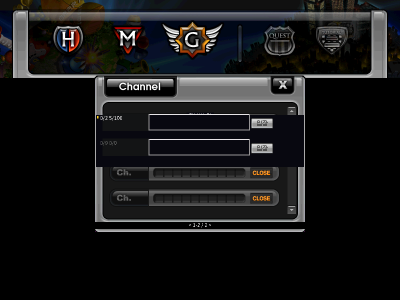
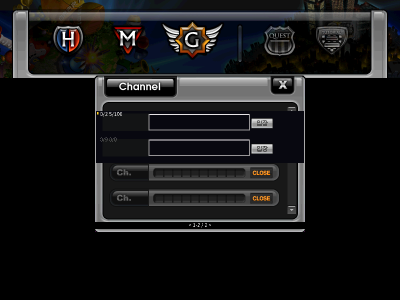
feat(shell): pin channel row geometry to exe-read rects
Live Wine memory read of the 7.55 client (~/scratch/channel-rects/)
pins the Channel scene's geometry: the hosting CStatePlanet dialog
object (parent+0xF6C) holds the four viewport slot rects (216,224,
572,275) / (216,275,572,324) / (216,324,572,375) / (216,375,572,436)
at dialog+0x94, and the enter face sits 12 px below the row tops
(face Y 236, matching the reference capture exactly). Paint, scrim,
and hit-test now ride this table; the reference-measured 232+50i
anchors (these rects' interior) are retired. Also answers the hosting
open question: no CStateChannel class exists because a CStatePlanet
object serves the channel screen.

Still reference-measured: face X origin and 48x24 chrome, interior
pill/track chrome (re-based on the pinned tops), pager origin. Button
view fields (+0x1E4/+0x1E8) blocked: no CCButton objects located and
winedbg cont is dead in wow64.

diff --git a/crates/o2jam-shell/src/screens/paint.rs b/crates/o2jam-shell/src/screens/paint.rs
@@ -294,47 +294,67 @@ fn paint_list_scrim(frame: &mut Frame<'_>, row_count: usize) {
 /// Row height of one channel entry.
 const CHANNEL_ROW_H: i32 = 8;
 
-/// Reference-measured Channel row geometry in native 800x600 px: row
-/// text tops sit at `232 + 50·index` on the live Wine capture
-/// (`/tmp/chan2-list.png`; method in channel-fill.md). Reference-grade
-/// only — no exe consumer pins these anchors, so they stay OPEN as
-/// exe evidence. Scales to the frame like staged placements do.
-const CHANNEL_ROW_TOP: i32 = 232;
-/// Reference-measured Channel row pitch in native px (see above).
-const CHANNEL_ROW_PITCH: i32 = 50;
+/// Exe-pinned Channel row rects `(left, top, right, bottom)` in
+/// native 800x600 px, read from the hosting `CStatePlanet` dialog
+/// object at dialog+`0x94` (live Wine memory read 2026-11-09; method,
+/// hashes, and session artifacts in `docs/channel-fill.md`). The four
+/// rects are the dialog's visible viewport slots; scrolled rows reuse
+/// them cyclically. The last visible bottom (436) sits just above the
+/// measured pager strip (439) — the capture's `232+50i` text tops
+/// were these rects' interior (+8 px text inset, pitch 50.3 avg).
+const CHANNEL_ROW_RECTS: [(i32, i32, i32, i32); 4] = [
+    (216, 224, 572, 275),
+    (216, 275, 572, 324),
+    (216, 324, 572, 375),
+    (216, 375, 572, 436),
+];
 
-/// Row top of Channel entry `index` on a frame of height `h`.
+/// Viewport slot count of the pinned row table.
+const CHANNEL_SLOT_COUNT: usize = CHANNEL_ROW_RECTS.len();
+
+/// Native top of Channel viewport slot `index`. Slots past the table
+/// extrapolate at the last measured pitch (51).
+fn channel_slot_top(index: usize) -> i32 {
+    if index < CHANNEL_SLOT_COUNT {
+        return CHANNEL_ROW_RECTS[index].1;
+    }
+    let last = i64::from(CHANNEL_ROW_RECTS[CHANNEL_SLOT_COUNT - 1].1);
+    let extra = 51_i64.saturating_mul(i64::try_from(index + 1 - CHANNEL_SLOT_COUNT).unwrap_or(0));
+    i32::try_from(last + extra).unwrap_or(i32::MAX)
+}
+
+/// Row top of Channel viewport slot `index` on a frame of height `h`.
 fn channel_row_top(index: usize, h: i32) -> i32 {
-    let native_top = i64::from(CHANNEL_ROW_TOP)
-        + i64::from(CHANNEL_ROW_PITCH) * i64::try_from(index).unwrap_or(0);
-    let scaled = native_top * i64::from(h) / i64::from(NATIVE_HEIGHT);
+    let scaled = i64::from(channel_slot_top(index)) * i64::from(h) / i64::from(NATIVE_HEIGHT);
     i32::try_from(scaled).unwrap_or(i32::MAX)
 }
 
-/// Channel row under a native-space `y` (`None` above the stack or
-/// past `row_count`). Inverse of [`channel_row_top`] at native size;
-/// mouse clicks arrive pre-mapped to native space, so no frame dims.
+/// Channel viewport slot under a native-space `y` (`None` above the
+/// slots or below every band). Inverse of the pinned
+/// [`CHANNEL_ROW_RECTS`] bands; mouse clicks arrive pre-mapped to
+/// native space, so no frame dims.
 #[must_use]
 pub(crate) fn channel_row_hit(y: i32, row_count: usize) -> Option<usize> {
-    let offset = y.checked_sub(CHANNEL_ROW_TOP)?;
-    if offset < 0 {
-        return None;
-    }
-    let index = usize::try_from(offset / CHANNEL_ROW_PITCH).ok()?;
-    (index < row_count).then_some(index)
+    let slots = row_count.min(CHANNEL_SLOT_COUNT);
+    (0..slots).find(|&i| (CHANNEL_ROW_RECTS[i].1..CHANNEL_ROW_RECTS[i].3).contains(&y))
 }
 
-/// Reference-measured entry-button face in native px: `(502, 236)`,
-/// 48 wide, 24 tall, stepping with the row pitch (`/tmp/chan2-list.png`;
-/// row 0 face only — followers ride the pitch, exe-OPEN).
+/// Exe-pinned entry-face inset: the join (`입장`) button face tops sit
+/// 12 px below the pinned row tops (face Y 236 = row0 top 224 + 12,
+/// live memory read 2026-11-09; matches the reference capture's 236
+/// exactly). The face X origin (502) and size (48x24, button chrome
+/// around the 44x24 exe art) stay reference-measured (capture
+/// `/tmp/chan2-list.png`, exe-OPEN).
 const CHANNEL_ENTER_X: i32 = 502;
 const CHANNEL_ENTER_W: i32 = 48;
 const CHANNEL_ENTER_H: i32 = 24;
+const CHANNEL_ENTER_DY: i32 = 12;
 /// Reference-measured Channel row chrome in native px (`/tmp/chan2-list.png`;
-/// row 0 only, followers ride the pitch, exe-OPEN): dark name pill
-/// behind the row text, hollow silver track with dark segment bodies
-/// (all rows read empty on the quiet server, so no fill rule is
-/// evidenced — the interior stays whatever the backdrop painted).
+/// row 0 only, followers re-base on the pinned row tops, exe-OPEN):
+/// dark name pill behind the row text, hollow silver track with dark
+/// segment bodies (all rows read empty on the quiet server, so no
+/// fill rule is evidenced — the interior stays whatever the backdrop
+/// painted).
 const CHANNEL_PILL_X: i32 = 205;
 const CHANNEL_PILL_Y: i32 = 227;
 const CHANNEL_PILL_W: i32 = 94;
@@ -353,8 +373,8 @@ const CHANNEL_TRACK_SIDE_TONE: u32 = pack_xrgb(150, 148, 150);
 /// Channel row chrome for viewport slot `slot`, scaled to the frame:
 /// name pill plus hollow track. Position stand-ins (see above).
 fn paint_channel_row_chrome(frame: &mut Frame<'_>, slot: usize) {
-    let step = i64::from(CHANNEL_ROW_PITCH) * i64::try_from(slot).unwrap_or(0);
-    let shift = i32::try_from(step).unwrap_or(i32::MAX);
+    // Re-base the measured slot-0 chrome on the pinned row tops.
+    let shift = channel_slot_top(slot).saturating_sub(CHANNEL_ROW_RECTS[0].1);
     let pill = scale_rect_to_frame(
         &Rect {
             x: CHANNEL_PILL_X,
@@ -429,20 +449,16 @@ fn paint_channel_row_chrome(frame: &mut Frame<'_>, slot: usize) {
         CHANNEL_TRACK_SIDE_TONE,
     );
 }
-const CHANNEL_ENTER_DY: i32 = 4;
-/// Measured face tone of the entry button (mid-gray pill).
 const CHANNEL_ENTER_TONE: u32 = pack_xrgb(150, 148, 151);
 
 /// Entry-button plate rect for viewport slot `slot`, scaled to the
-/// frame: band top plus the measured face offset.
+/// frame: the pinned row top plus the pinned face inset.
 fn channel_enter_rect(slot: usize, w: i32, h: i32) -> Rect {
     let wide = i64::from(w);
     let high = i64::from(h);
     let native_w = i64::from(NATIVE_WIDTH);
     let native_h = i64::from(NATIVE_HEIGHT);
-    let band = i64::from(CHANNEL_ROW_TOP)
-        + i64::from(CHANNEL_ROW_PITCH) * i64::try_from(slot).unwrap_or(0);
-    let top = band + i64::from(CHANNEL_ENTER_DY);
+    let top = i64::from(channel_slot_top(slot)) + i64::from(CHANNEL_ENTER_DY);
     Rect {
         x: i32::try_from(i64::from(CHANNEL_ENTER_X) * wide / native_w).unwrap_or(0),
         y: i32::try_from(top * high / native_h).unwrap_or(0),
@@ -483,28 +499,32 @@ fn paint_channel_enter_art(frame: &mut Frame<'_>, shown: usize, art: &SceneArt) 
         return;
     }
     for slot in 0..shown {
-        // Reference-measured face origin (native px): the row band top
-        // plus the measured 4 px inset (faces (502,236+50i,48,24)).
+        // Face origin (native px): the pinned row top plus the pinned
+        // 12 px inset (face Y 236 = row0 top 224 + 12).
         let (dx, dy) = anchor_in_frame(
             CHANNEL_ENTER_X,
-            channel_row_top(slot, NATIVE_HEIGHT as i32) + CHANNEL_ENTER_DY,
+            channel_slot_top(slot) + CHANNEL_ENTER_DY,
             frame.w,
             frame.h,
         );
         figure.paint_scaled_anchors(frame, dx, dy, frame.w, frame.h);
     }
 }
-/// Dark strip behind Channel rows, rescaled from the measured native
-/// stack: mirrors [`paint_list_scrim`] shape (2 px bleed) without
-/// sharing its invented anchors.
-fn paint_channel_scrim(frame: &mut Frame<'_>, top: usize, shown: usize) {
+/// Dark strip behind Channel rows over the pinned viewport slots
+/// (2 px bleed past the first top and last bottom).
+fn paint_channel_scrim(frame: &mut Frame<'_>, shown: usize) {
     if shown == 0 || frame.w == 0 || frame.h == 0 {
         return;
     }
     let w = i32::try_from(frame.w).unwrap_or(0);
     let h = i32::try_from(frame.h).unwrap_or(0);
-    let first = channel_row_top(top, h) - 2;
-    let bottom = channel_row_top(top + shown, h) + 2;
+    let first = channel_row_top(0, h) - 2;
+    let last_index = (shown - 1).min(CHANNEL_SLOT_COUNT - 1);
+    let bottom = i32::try_from(
+        i64::from(CHANNEL_ROW_RECTS[last_index].3) * i64::from(h) / i64::from(NATIVE_HEIGHT),
+    )
+    .unwrap_or(i32::MAX)
+        + 2;
     fill_rect(
         frame,
         &Rect {
@@ -632,7 +652,7 @@ fn paint_channel_rows(
     art: Option<&SceneArt>,
 ) {
     let (top, shown) = channel_viewport(highlight, channels.len());
-    paint_channel_scrim(frame, top, shown);
+    paint_channel_scrim(frame, shown);
     match art {
         Some(art) => paint_channel_enter_art(frame, shown, art),
         None => paint_channel_buttons(frame, shown),
@@ -7564,16 +7584,20 @@ mod paint_tests {
     }
 
     #[test]
-    fn channel_row_hit_mirrors_paint_inside_the_measured_faces() {
-        // Hit-test inverse of the measured stack: a pixel inside the
-        // face of row i maps back to row i; pixels above the stack or
-        // past the list hit nothing.
-        for slot in 0..CHANNEL_VISIBLE_ROWS {
-            let face_y = channel_row_top(slot, i32::try_from(NATIVE_HEIGHT).unwrap_or(0))
-                + CHANNEL_ENTER_DY
-                + 5;
+    fn channel_row_hit_mirrors_the_pinned_row_rects() {
+        // Hit-test inverse of the exe-pinned slot bands (CStatePlanet
+        // dialog+0x94): a pixel inside the face of slot i maps back to
+        // slot i; the band edges (top inclusive, bottom exclusive) and
+        // pixels above the stack or past the last bottom hit nothing.
+        for (slot, &(.., band_top, _, band_bottom)) in CHANNEL_ROW_RECTS.iter().enumerate() {
+            let face_y = band_top + CHANNEL_ENTER_DY + 5;
             assert_eq!(channel_row_hit(face_y, 4), Some(slot));
+            assert_eq!(channel_row_hit(band_top, 4), Some(slot));
+            assert_eq!(channel_row_hit(band_bottom - 1, 4), Some(slot));
         }
+        // Bottom edge is exclusive: the last band ends at 436.
+        assert_eq!(channel_row_hit(435, 4), Some(3));
+        assert_eq!(channel_row_hit(436, 4), None);
         assert_eq!(channel_row_hit(100, 4), None);
         assert_eq!(channel_row_hit(560, 4), None);
     }

diff --git a/crates/o2jam-shell/src/screens/game.rs b/crates/o2jam-shell/src/screens/game.rs
@@ -3993,10 +3993,18 @@ mod game_tests {
     }
 
     #[test]
-    fn channel_row_hit_maps_measured_bands() {
+    fn channel_row_hit_maps_the_exe_pinned_bands() {
+        // Exe-pinned slot rects (CStatePlanet dialog+0x94):
+        // (216,224,572,275), (216,275,572,324), (216,324,572,375),
+        // (216,375,572,436) — tops inclusive, bottoms exclusive.
+        assert_eq!(channel_row_hit(224, 10), Some(0));
         assert_eq!(channel_row_hit(240, 10), Some(0));
-        assert_eq!(channel_row_hit(281, 10), Some(0));
+        assert_eq!(channel_row_hit(274, 10), Some(0));
+        assert_eq!(channel_row_hit(275, 10), Some(1));
         assert_eq!(channel_row_hit(282, 10), Some(1));
+        assert_eq!(channel_row_hit(375, 10), Some(3));
+        assert_eq!(channel_row_hit(435, 10), Some(3));
+        assert_eq!(channel_row_hit(436, 10), None);
         assert_eq!(channel_row_hit(100, 10), None);
         assert_eq!(channel_row_hit(732, 10), None);
         assert_eq!(channel_row_hit(240, 0), None);

diff --git a/docs/parity.md b/docs/parity.md
@@ -37,7 +37,7 @@ invented placement remains (cited per cell), never for lack of art.
 
 | Dimension | 7.55 expectation (evidence) | Shell status | Verdict |
 |---|---|---|---|
-| Composition | 50 controls, decl `0x27`, **no `.bnd`** (bare `BOUND`); `Dialog_ChannelSelectBar.ojs`, back/rank buttons (lifecycle §6) | Soak stages the empty scene (no-fill pinned per `docs/channel-fill.md` — the block names zero sprites): `channel.png` re-shot 2026-11-09 now carries genuine staged dialog art — `Dialog_ChannelInfo.ojs` body (800x466, one raw layer) at its record anchor (0,0), which contains every reference-measured band (panel approx x185-615 y150-464, title plate y150-195, row tops 232+50i, faces (502,236+50i), pager strip y439-464, X zone x560-620; reference-measured, exe-OPEN), and `ChannelInfo_CH_Enter.ojs` frame 0 at the measured faces in place of the procedural plates (procedural fallback kept for the no-archive path; guarded by `channel_dialog_body_stages_behind_the_live_list`, `channel_enter_art_covers_the_measured_faces`, `channel_scene_without_enter_figure_keeps_procedural_plates`, `channel_row_hit_mirrors_paint_inside_the_measured_faces`, soak `channel_layers_list_over_real_dialog_art`, shots `channel_shot_stages_dialog_art_inside_the_measured_bands` — every new-ink pixel proven inside the 800x466 body, strip below y466 byte-identical to the art-less frame). Live row text/cursor/pager ink on top; the strip below the body stays untouched (no fill). Unmounded (all parse today, no measured mount): `Dialog_ChannelSelectBar.ojs` (347x41 — bar mount rect OPEN per channel-fill.md), `ChannelInfo_Btn_Close.ojs` (48x38 x2 — measured X zone is approximate, exact origin unpinned; the body bakes the X plate), `ChannelInfo_CH_Back.ojs` (347x41 x3), `ChannelInfo_CH_ConnectCount.ojs` (185x19), `ChannelInfo_CH_Num.ojs` (13x18 x10), `ChannelInfo_Scroll_Bar.ojs` (21x45 — scroll track .bnd rect unmeasured), board/category/pager/tab names (Planet_* bodies belong to STATE_PLANET). Art inventory 2026-11-09 (names + parse, `Interface1.opi`): dialog body + 14 parts + its own `.bnd` (27 rects) all decode via `parse_sprite55`; the `.bnd` part rects stay unmounted (mounts must come from the capture measurements). — still FAIL: measured anchors are reference-grade not exe-pinned, live rows/chrome/pager remain procedural stand-ins over the baked dialog rows, unmounded parts above. | FAIL |
+| Composition | 50 controls, decl `0x27`, **no `.bnd`** (bare `BOUND`); `Dialog_ChannelSelectBar.ojs`, back/rank buttons (lifecycle §6) | Soak stages genuine dialog art under the pinned no-fill rule: `Dialog_ChannelInfo.ojs` body at its record anchor (0,0) (exe-mounted sheet 800x468; the parsed body is one 800x466 layer — 2 px runtime delta recorded, uncompensated) and `ChannelInfo_CH_Enter.ojs` frame 0 at the faces (exe art 44x24; parsed frames 44x21). Row geometry is now **exe-pinned** (live Wine memory read 2026-11-09, `docs/channel-fill.md`): the hosting `CStatePlanet` dialog object at `parent+0xF6C` holds the four viewport slot rects (216,224,572,275) / (216,275,572,324) / (216,324,572,375) / (216,375,572,436) at dialog+`0x94`; paint, scrim, and hit-test all ride this table (tops inclusive, bottoms exclusive), and the enter-face inset (row top + 12 → face Y 236) is pinned the same way — the reference capture's `232+50i` anchors were these rects' interior and are retired. Block staging live-confirmed: 33 zero-rect records (state `0x12`), the `0x8C` dialog block carries 26 sprite-named records. Still reference-measured (exe-OPEN): face X origin 502 and the 48x24 face chrome (4 px around the 44x24 art), interior pill/track chrome (re-based on the pinned tops), pager origin. Unmounded (no measured/pinned mount): select bar 348x44, `CH_Back` 348x44, `Btn_Close` 48x40, `CH_ConnectCount` 188x20, `CH_Num` 16x20, scroll bodies 24x20/24x48 — sizes exe-pinned, positions OPEN (button view fields `+0x1E4/+0x1E8` blocked: no `CCButton` objects found, winedbg `cont` dead in wow64). Guards: `channel_row_hit_maps_the_exe_pinned_bands`, `channel_row_hit_mirrors_the_pinned_row_rects`, `channel_dialog_body_stages_behind_the_live_list`, `channel_enter_art_covers_the_measured_faces`, soak `channel_layers_list_over_real_dialog_art`, shots `channel_shot_stages_dialog_art_inside_the_measured_bands`. — still FAIL: face X/chrome, interior chrome, pager, and the unmounded parts above stay non-pinned; row content text is an ASCII stand-in (no CP949 glyphs). | FAIL |
 | Input | Pick channel/planet → room (`My_channel`/`My_planet` bridge, file `0x24df70`–`0x24e024`) | Up/Down moves highlight (clamped), Confirm → Room | OPEN (no planet/solo fork) |
 | Timing | None documented | n/a | PASS (vacuous) |
 | Transitions | `Channel → Room`; hosted by unknown class (open question) | Implemented + tested | PASS |
@@ -133,7 +133,7 @@ scenario, so structure, not pixels, is compared):
 | `waiting.png` vs `reference-waiting-4x3.png` | REFRESHED 2026-11-07 (scripted 3012/3013 chat fixture — see below). Top panel (59.6 vs 65.6), seat grid (55.5 vs 53.0), right column (59.4 vs 61.4) unchanged; bottom chat band carries two live rows plus the input caret (bracket-form amber rows at the photo-pinned 17 px pitch — see the 2026-11-08 chat-box verify below). Caption refresh 2026-11-07 (see below): only `waiting.png` changed again — 682 px confined to the six caption rects (MUSICNAME/MAPNAME/BPM/3×SKILLCOUNT), every other shot byte-identical, no pipeline drift. Residuals: invented 2-col x 4-row seat grid, no team buttons/covers (the song dialog lives in `musicselect.png` below); chat texts are ASCII stand-ins, no paging/scroll |
 | `result.png` vs `reference-result-4x3.png` | REFRESHED (was stale). Score dome (48.6 vs 50.7), verdict banner (46.5 vs 48.7), rank table (85.3 vs 48.5), footer (59.1 vs 51.2). The checked-in PNG predated the rank-row wiring (`04e2462`) — its row band was empty; the re-shoot carries row 0 (`YOU`, `1/0/0/0`, `200`) at the pinned columns, guarded by `result_shot_paints_the_rank_table_row` (proven to fail on wrong text). Scenario deltas vs the photo stay: GOOD! solo arm vs LOSE, one local row vs two wire rows, P plate vs C |
 | `musicselect.png` vs `reference-musicselect-4x3.png` | NEW (was UNCOVERED — no shot mapped to it). The walk now repaints Waiting through the host song flow (installed 7.55 562-song catalog, pick id 757 Hard X3.5; 4-song synthetic fallback without game data) under genuine `DAILOG_SELECTMUSIC` art, and the staged structure paints over it: filter columns (75.0 vs 183.4), search table (61.3 vs 83.2), status + search row (76.4 vs 114.7), chosung + OK (84.3 vs 128.1) — staged ink in every band on both sides. Still FAIL: per-chart level and grade cells draw the unknown dash (never staged), the 다운/듣기/정보 icon cells stay blank (no staged art), chosung hangul + word cells stay blank (no CP949 glyphs), the dialog bind pairing is unproven (the every-bound-entry proof covers Playing + Room only), and pager/search/chosung are display-only. Guarded by `musicselect_shot_repaints_waiting_with_song_panel`, `musicselect_fallback_catalog_lists_four_synthetic_songs`, `musicselect_dialog_structure_paints_search_tab_over_waiting` |
-| `channel.png` | REFRESHED 2026-11-09: genuine `Dialog_ChannelInfo.ojs` dialog art now stages at its record anchor (measured bands contained: Channel title plate + X zone, baked row shells, 진입 buttons) with `ChannelInfo_CH_Enter.ojs` at the measured faces and the live list/cursor/pager on top — 58715 inked px of 120000 (was 2170 art-less); the strip below the 466-tall body stays byte-identical to the art-less frame (no fill), guarded by `channel_shot_stages_dialog_art_inside_the_measured_bands`. Still FAIL: reference-measured (exe-OPEN) anchors, procedural row chrome/pager over the baked dialog rows, select-bar/back/close/scroll parts unmounded (no measured mounts) |
+| `channel.png` | REFRESHED 2026-11-10: rows/hit-test/scrim now ride the exe-pinned slot rects (live memory read: CStatePlanet dialog+`0x94`) with the enter face at row-top + 12; dialog art staging unchanged from 2026-11-09 (800x466 parsed body at (0,0), 44x21 enter frames at the faces, live list/cursor/pager on top). Still FAIL: face X/chrome, interior chrome, and pager stay reference-measured; select-bar/back/close/num/count/scroll parts unmounded (sizes pinned, positions OPEN) |
 | `room.png` | HOLD, byte-identical (no drift). No reference photo covers it |
 | `loading.png` | REFRESHED 2026-11-08: the walk holds the clock-armed full fraction with the staged catalog caption (song 757) — 252 px of new caption ink at the placeholder row, bar unchanged full; guarded by the two loading-stage tests. No reference photo covers it; staged `MusicLoading.ojs` art + green bar under the no-fill rule (empty stage would paint nothing, staged art is unaffected) |
 

diff --git a/docs/channel-fill.md b/docs/channel-fill.md
@@ -320,6 +320,79 @@ stand-ins until `0x510730`'s row layout is mirrored (the matching OPEN
 sentences in `net-protocol.md`, `rooms.rs`, and `paint.rs` are owned
 by other docs/code and untouched here).
 
+# Live memory read (2026-11-09) — geometry and host EXE-PINNED
+
+Dynamic read of the live 7.55 process under Wine (winedbg stopped-state
+memory reads; no input needed). Full method, dumps, and session log in
+`~/scratch/channel-rects/` (`findings.md`). Pins below supersede the
+reference-measured stack anchors wherever they differ; the capture
+measurements stand corroborated.
+
+- **Host ANSWERED**: the parent global `0x762B44` holds the `CState`
+singleton (vtable `0x647920`). Its mounted child at `parent+0xF6C` is a
+**`CStatePlanet`** object (vtable `0x647B24`, RTTI `.?AVCStatePlanet@@`)
+— the Channel dialog host. The dialog carries the string
+`State_Planet`. Which call passes the Channel block stays untraced, but
+the hosting object is now pinned (this doc's earlier "Planet or
+shared-base stages Channel" hypothesis resolves to Planet).
+- **Block staging, live-confirmed**: the `STATE_CHANNEL` block (buffer
+`0x029E2428`, code `0x12`) holds 33 records of stride `0x11C`, codes
+`0x12100001`-`0x1250002B`; every rect is **zero** - the bare-BOUND /
+zero-rect finding confirmed in the running process. The
+`DIALOG_CHANNEL_INFO` block (buffer `0x02A39A30`, code `0x8C`, in the
+parent's second descriptor table at `parent+0x2000`) holds 26 records
+**with quoted sprite names** and zero rects; its art list matches the
+mounted bodies below (`Dialog_ChannelInfo.ojs`, `ChannelInfo_Btn_Close`,
+`CH_Back`, `CH_Num` x2, `CH_ConnectCount`, `CH_Enter`,
+`Messenger_Main_Scroll_Up/Down`, `ChannelInfo_Scroll_Bar`, plus
+`Planet_Btn_*` promo bodies - the same dialog object carries the planet
+promo side at `dialog+0x84`, channel side at `dialog+0x8C`).
+- **Row rects EXE-PINNED** (`CStatePlanet` dialog object at `0x018E7E20`,
+array at `dialog+0x94`, format left/top/right/bottom):
+  - row 0: (216, 224, 572, 275)
+  - row 1: (216, 275, 572, 324)
+  - row 2: (216, 324, 572, 375)
+  - row 3: (216, 375, 572, 436)
+  The four rects are the visible viewport slots (scrolled rows reuse
+  them cyclically); the reference capture's `232+50i` text tops read the
+  interior of these rects (+8 px text inset, pitch 50.3 average).
+  Related scalars: `dialog+0xE8 = 0x16` (22 = server channel count),
+  `+0x1EC = 0x1F` (31).
+- **Entry-face inset EXE-PINNED**: the join face tops sit 12 px below
+the row tops (face Y 236 = 224 + 12), matching the capture's 236
+exactly. The face X origin (502) and the 48x24 face (4 px button chrome
+around the 44x24 exe art) stay reference-measured - button view fields
+not read (see BLOCKED).
+- **Mounted art, exe-pinned sizes** (live sprite records, array
+`0x02996B20`, stride `0x260`; height/width at +`0x170`/`+0x174`):
+`Dialog_ChannelSelectBar.ojs` 348x44 (parse: 347x41),
+`Dialog_ChannelInfo.ojs` 800x468 (parse: one 800x466 layer - the 2 px
+delta is a runtime-surface difference, recorded, uncompensated),
+`ChannelInfo_Btn_Close.ojs` 48x40, `ChannelInfo_CH_Back.ojs` 348x44,
+`ChannelInfo_CH_Num.ojs` 16x20, `ChannelInfo_CH_ConnectCount.ojs`
+188x20, `ChannelInfo_CH_Enter.ojs` 44x24 (parse: three 44x21 frames),
+`Messenger_Main_Scroll_Up/Down.ojs` 24x20, `ChannelInfo_Scroll_Bar.ojs`
+24x48.
+- **BLOCKED**: button view fields `+0x1E4`/`+0x1E8` - no `CCButton`-
+family objects located in heap dumps, and winedbg `cont`/breakpoints are
+non-functional in this wow64 state, so the per-frame writers (file
+`0x129088`..) and the pairing getter `0x548640` could not be
+intercepted. Next path: repair `cont` (`pass`, 32-bit winedbg, or
+`winedbg --gdb`), or locate the control-array consumer statically.
+
+## Shell rule update (2026-11-10)
+
+`crates/o2jam-shell/src/screens/paint.rs` now paints the Channel scene
+on the pinned rects: `CHANNEL_ROW_RECTS` (the dialog+`0x94` table),
+hit-testing against the same bands (tops inclusive, bottoms exclusive),
+the enter face at row-top + 12, and the scrim spanning the pinned slot
+bands. The interior chrome (name pill, hollow track) stays
+reference-measured but re-bases on the pinned row tops (pill +3, track
++4). Face X/48x24 chrome stays reference-measured. Guards:
+`channel_row_hit_maps_the_exe_pinned_bands` (game.rs),
+`channel_row_hit_mirrors_the_pinned_row_rects` (paint.rs). The
+reference-measured `232+50i` anchors are retired.
+
 ## OPEN
 
 1. Presenter backbuffer policy behind art-less states — PINNED to
@@ -514,10 +587,12 @@ by other docs/code and untouched here).
    `TITLE`) beside the SelectBar fetch (file `0x8DE84`). Channel
    `TITLE` targets are never code-addressed; captions, if any, must
    arrive via cached pointers or array iteration, both untraced.
-3. Dialog host mounting the code-fetched select bar
-   (`DIALOG_CHANNEL_INFO`/`CDChannelInfo` index path; `0x4ED650` is since
-   read — a playing-screen builder, not a dialog host candidate — see the
-   OPEN 2 join; `ui-loader.md` OPEN 2 itself untouched).
+3. Dialog host — RESOLVED 2026-11-09: the mounted child at
+   `parent+0xF6C` is a `CStatePlanet` object (live memory read; see the
+   "Live memory read" section above). The select bar's exact mount
+   rect stays OPEN (button view fields blocked); `CDChannelInfo` never
+   materialized as a class — dialog lookup is index-driven through the
+   `0x8C` block.
 4. `CWindow`/`CDialogBase` default fill, if any (ui-draw OPEN 3).
 5. Loading bar/caption geometry — OPEN, negative result (placeholders
    kept): `MusicLoading.ojs` (`Playing1.opi` slot 39, 960,028 B) is

diff --git a/docs/lifecycle.md b/docs/lifecycle.md
@@ -89,8 +89,12 @@ line — the only full state without one) and **no `CStateChannel` class**
 in RTTI. Visible controls: `Dialog_ChannelSelectBar.ojs`,
 `IDC_BUTTON_SCHANNEL_BACK/RANK/CONTESTRANK`. Entry: from AVI.
 Exit: pick channel/planet → `STATE_ROOM` (or `STATE_PLANET` for solo).
-How a stateless block is hosted (base class? web page?) is an open question;
-`DIALOG_CHANNEL_INFO` (`CDChannelInfo`) and `CCBtnChannel` serve popups.
+RESOLVED 2026-11-09 (live memory read, `docs/channel-fill.md`): the
+screen's dialog is hosted by a **`CStatePlanet`** object mounted at
+`parent+0xF6C` under the `CState` singleton — there is no
+`CStateChannel` class because Planet's state object serves the channel
+screen. `DIALOG_CHANNEL_INFO` (`CDChannelInfo`) and `CCBtnChannel` serve
+popups.
 
 ### 7. `STATE_ROOM` — multiplayer lobby (`CStateRoom`)
 Decl `0x36`, 76 entries, `State_Room.bnd` (75 rects). Room list with
@@ -200,7 +204,9 @@ Login has no box: web page → command line → `CTuser_*`/`My_channel` bridge.
 
 ## Unknowns (marked, not guessed)
 1. `WinMain` address and the exact first-state assignment call (no dossier).
-2. Which class hosts `STATE_CHANNEL` / `STATE_LANKING` (no `CState*` match).
+2. Which class hosts `STATE_LANKING` (no `CState*` match). Channel's
+   host is RESOLVED: a `CStatePlanet` object at `parent+0xF6C`
+   (live memory read 2026-11-09, `docs/channel-fill.md`).
 3. `DRUM_PLAYING` trigger — likely dead; no class, stub-only block.
 4. Option keys beyond the §3 table (key binds, volumes, resolution).
 5. Playing `State_Playing.bnd` 17-rect ↔ 235-entry subset rule (see `opi.md`).
